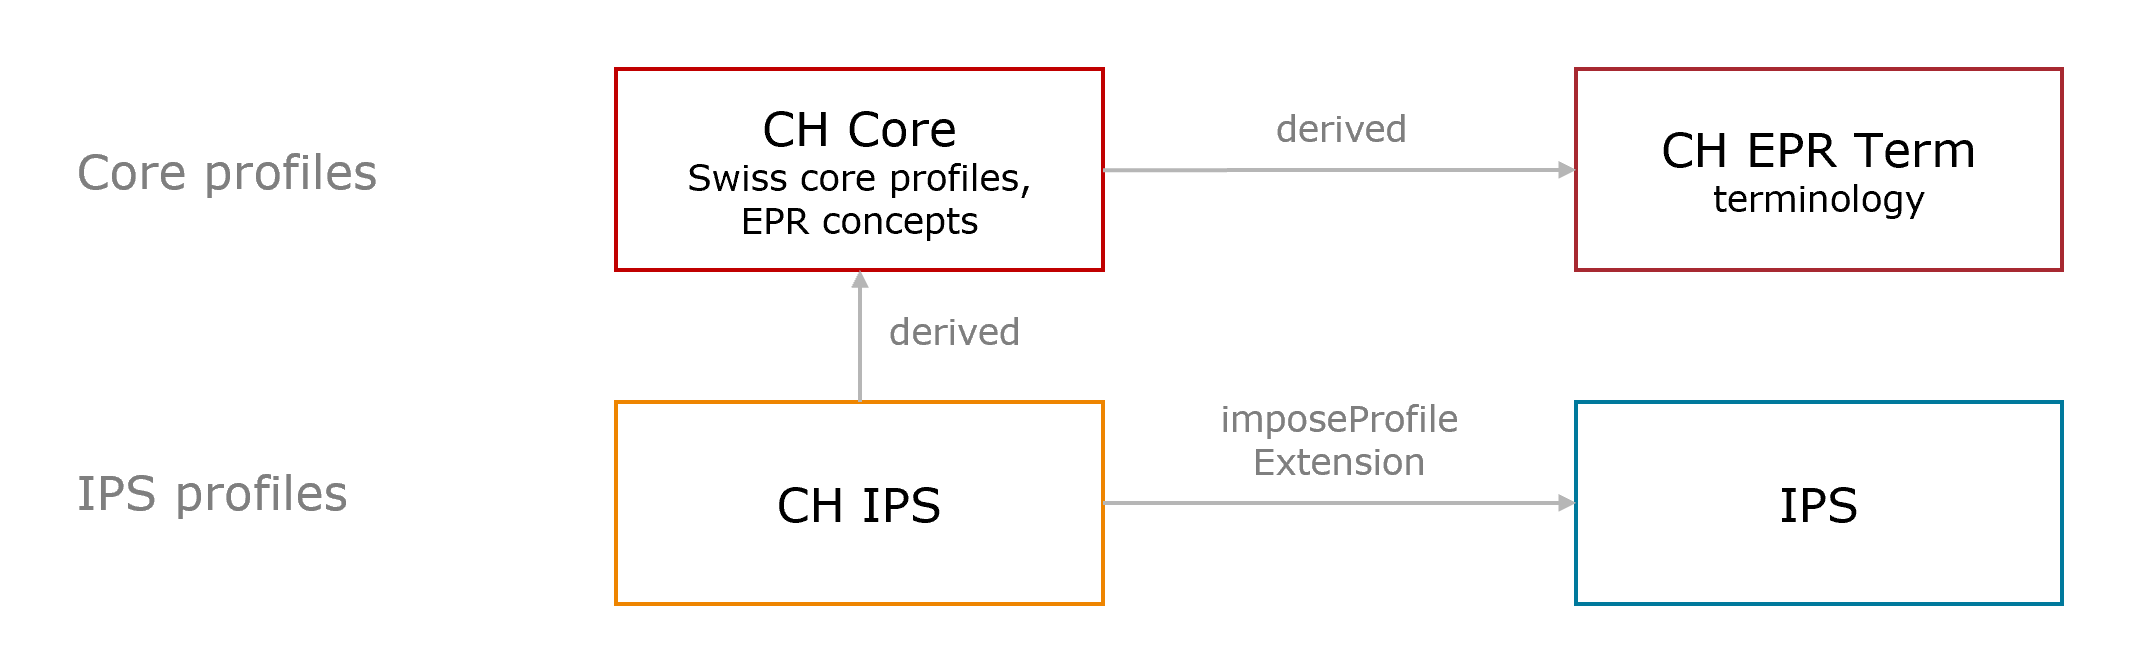
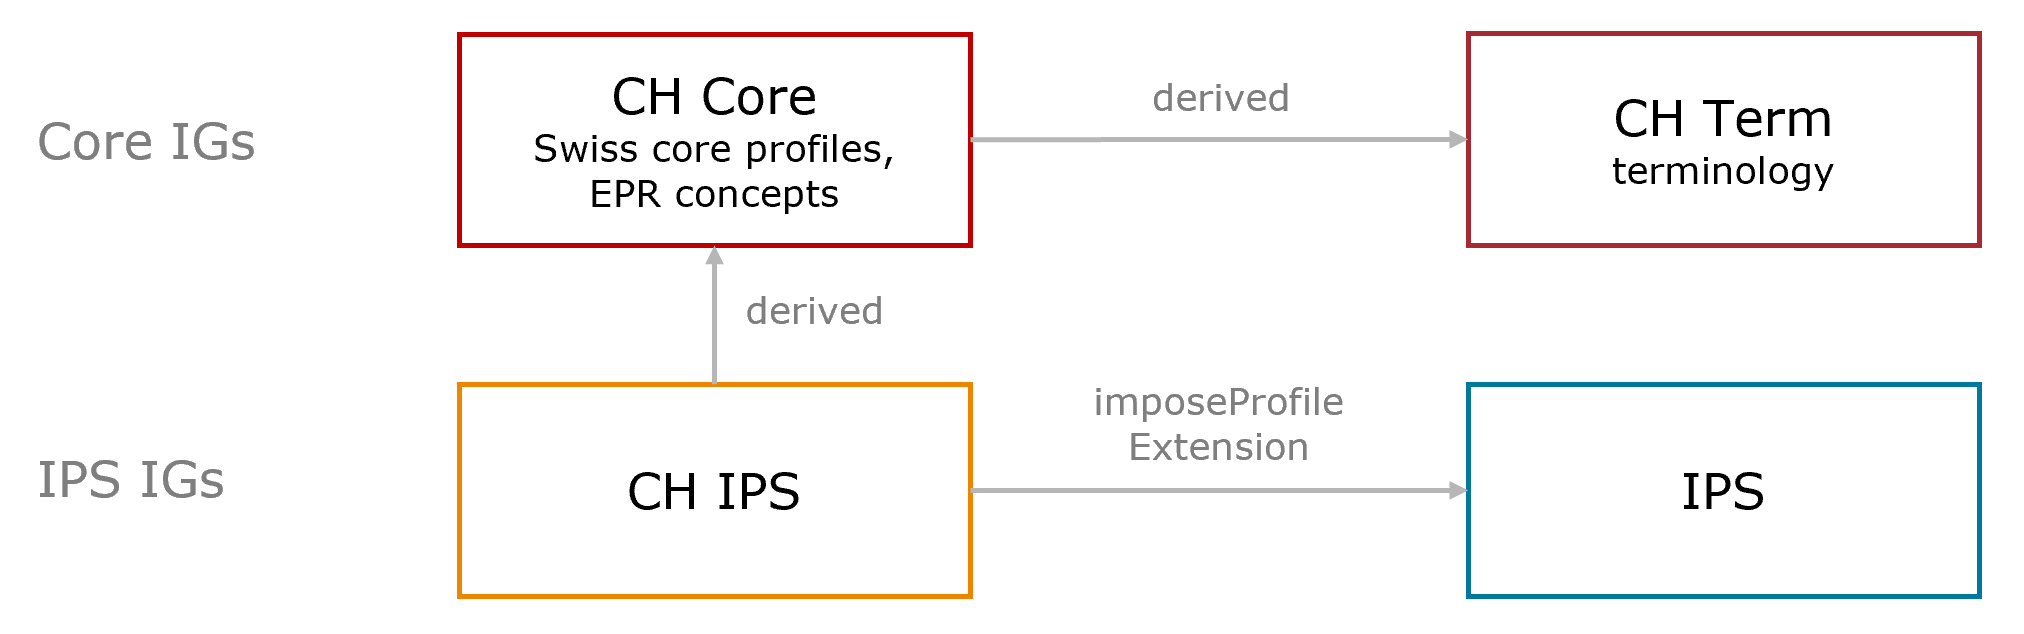
some updates

diff --git a/input/pagecontent/index.md b/input/pagecontent/index.md
@@ -1,10 +1,10 @@
 ### Introduction
 An **International Patient Summary (IPS) document** is an electronic health record extract containing essential healthcare information about a subject of care. As specified in EN 17269 and ISO 27269, it is designed for supporting the use case scenario for ‘unplanned, cross border care’, but it is not limited to it. It is intended to be international, i.e., to provide generic solutions for global application beyond a particular region or country.  
 
-The intention of this **CH IPS** FHIR implementation guide is to provide a structure that allows the use of the [Swiss core profiles](https://fhir.ch/ig/ch-core/index.html) while ensuring conformity with the [International Patient Summary Implementation Guide](https://hl7.org/fhir/uv/ips/).   
+The intention of this **CH IPS** FHIR implementation guide (IG) is to provide a structure that allows the use of the [Swiss core profiles](https://fhir.ch/ig/ch-core/index.html) while ensuring conformity with the profiles of the [International Patient Summary Implementation Guide](https://hl7.org/fhir/uv/ips/STU1.1/).   
 To be able to guarantee this, the CH IPS profiles are derived from the respective CH Core profiles and conformity with the corresponding IPS profile is ensured with the [imposeProfile extension](https://hl7.org/fhir/extensions/StructureDefinition-structuredefinition-imposeProfile.html).
 
-{% include img.html img="ig-overview.png" caption="Fig.: Schematic representation of the dependency mechanism of the implementation guides" width="70%" %}
+{% include img.html img="ig-overview.png" caption="Fig. 1: Schematic representation of the dependency mechanism of the implementation guides" width="65%" %}
 
 
 <div markdown="1" class="stu-note">
@@ -15,14 +15,23 @@ The specification herewith documented is work in progress.
 
 **Download**: You can download this implementation guide in the [npm package](https://confluence.hl7.org/display/FHIR/NPM+Package+Specification) format from [here](package.tgz).
 
-### MustSupport
-TODO [MustSupport](https://hl7.org/fhir/r4/conformance-rules.html#mustSupport) definition
+### Principles & Design
+CH IPS follows the [Design Conventions and Principles](https://hl7.org/fhir/uv/ips/STU1.1/design.html) of the IPS IG. Please check the detailed information there.    
+Only a few key points are mentioned and illustrated in simplified form below.
+
+The IPS is composed of different elements and sections, see the description [here](https://hl7.org/fhir/uv/ips/STU1.1/ipsStructure.html). The [CH IPS Document](document.html) is based on this **structure**.
+
+The principles for **representing “known absent” and “not known”** described [here](https://hl7.org/fhir/uv/ips/STU1.1/design.html#representing-known-absent-and-not-known) apply for CH IPS and are illustrated in Fig. 2.
+
+In this IG no elements are actively flagged as [mustSupport](https://hl7.org/fhir/r4/conformance-rules.html#mustSupport) = `true`. **Must Support** in CH IPS applies to the same elements as defined in IPS and the same [rules](https://hl7.org/fhir/uv/ips/STU1.1/design.html#must-support) also take effect.
+
+{% include img.html img="sections.png" caption="Fig. 2: Summary illustration of some principles for the sections" width="60%" %}
 
 ### Safety Considerations
 This implementation guide defines data elements, resources, formats, and methods for exchanging healthcare data between different participants in the healthcare process. As such, clinical safety is a key concern. Additional guidance regarding safety for the specification’s many and various implementations is available at: [https://www.hl7.org/FHIR/safety.html](https://www.hl7.org/FHIR/safety.html).
 
 Although the present specification does gives users the opportunity to observe data protection and data security regulations, its use does not guarantee compliance with these regulations. Effective compliance must be ensured by appropriate measures during implementation projects and in daily operations. The corresponding implementation measures are explained in the standard. 
-In addition, the present specification can only influence compliance with the security regulations in the technical area of standardisation. It cannot influence organisational and contractual matters.
+In addition, the present specification can only influence compliance with the security regulations in the technical area of standardization. It cannot influence organizational and contractual matters.
 
 ### IP Statements
 This document is licensed under Creative Commons "No Rights Reserved" ([CC0](https://creativecommons.org/publicdomain/zero/1.0/)).

diff --git a/input/pagecontent/usecase-german.md b/input/pagecontent/usecase-german.md
@@ -1,2 +1,4 @@
 ### Fallbeispiel 1
-Frau Monika Wegmüller, geboren am 15. Mai 1943, kommt mit einem stechenden Schmerz in der Brust und Atemnot in die Notaufnahme. Dort wird sie von einem Team aus ärztlichem Fachpersonal und Pflegepersonal untersucht. Der behandelnde Arzt ruft das IPS von Frau Wegmüller auf und stellt fest, dass Frau Wegmüller an Diabetes leidet und Blutdruckmedikamente einnimmt. Zusätzlich leidet Frau Wegmüller an einer Allergie gegen Penicillin. Sofort wird Frau Wegmüller eine niedrige Dosis Betablocker verabreicht, und ihr Herzrhythmus wird überwacht.
+Frau [Monika Wegmüller](Patient-MonikaWegmueller.html), geboren am 15. Mai 1943, kommt mit einem stechenden Schmerz in der Brust und Atemnot in die Notaufnahme. Dort wird sie von einem Team aus ärztlichem Fachpersonal und Pflegepersonal untersucht. Der behandelnde Arzt ruft das IPS von Frau Wegmüller auf und stellt fest, dass Frau Wegmüller an Diabetes leidet und Blutdruckmedikamente einnimmt. Zusätzlich leidet Frau Wegmüller an einer Allergie gegen Penicillin. Sofort wird Frau Wegmüller eine niedrige Dosis Betablocker verabreicht, und ihr Herzrhythmus wird überwacht.
+
+[Dokument](Bundle_DocUC1.html)

diff --git a/README.md b/README.md
@@ -5,9 +5,8 @@ The International Patient Summary (IPS) document is an electronic health record 
 * [CI Build](https://build.fhir.org/ig/hl7ch/ch-ips/)
 
 ## TODOs
-- [ ] as soon as the Swiss base profiles are moved to CH Core change the parent profiles to CH Core (instead of CH EMED, CH VACD etc.)
 - [ ] add the CH IPS profiles as referenced profiles (e.g. Condition.subject -> CH IPS Patient)
 - [ ] define MustSupport and set the flag in the profiles (at the moment the flags are overtaken from IPS but only for Composition.section)
 - [ ] add examples and use cases, update the SwissIpsDocument example (meaningful content)
 - [ ] check open issues, check for TODO/FIXME
-- [ ] test the behaviour if two different cardinalities are defined in CH Core and IPS (may add an section in the ig to describe this)
+- [ ] test the behavior if two different cardinalities are defined in CH Core and IPS (may add an section in the ig to describe this)

diff --git a/input/pagecontent/document.md b/input/pagecontent/document.md
@@ -1,7 +1,7 @@
 ### FHIR document (Bundle)
 This exchange format is defined as a [document](https://hl7.org/fhir/R4/documents.html) type that corresponds to a [Bundle](https://hl7.org/fhir/R4/bundle.html) as a FHIR resource. A Bundle has a list of entries. The first entry is the [Composition](https://hl7.org/fhir/R4/composition.html), in which all contained entries are then referenced.
 
-{% include img.html img="document.png" caption="Fig.: Schematic document structure of CH IPS" width="80%" %}
+{% include img.html img="document.png" caption="Fig. 3: Schematic document structure of CH IPS" width="80%" %}
 
 
 ### Profiles and Examples

diff --git a/input/pagecontent/changelog.md b/input/pagecontent/changelog.md
@@ -1,4 +1,9 @@
 All significant changes to this FHIR implementation guide will be documented on this page.
 
-### v0.1.0
+### DSTU 1 Ballot - v0.1.0 (2024)
 Initial published version.
+
+#### Open Issues
+* [#2](https://github.com/hl7ch/ch-ips/issues/2): Incompatibility for medication units between CH IPS (UCUM & SCT) and IPS (UCUM) -> open [change request](https://jira.hl7.org/browse/FHIR-44765) for IPS
+
+See also open issues on [GitHub](https://github.com/hl7ch/ch-ips/issues).
